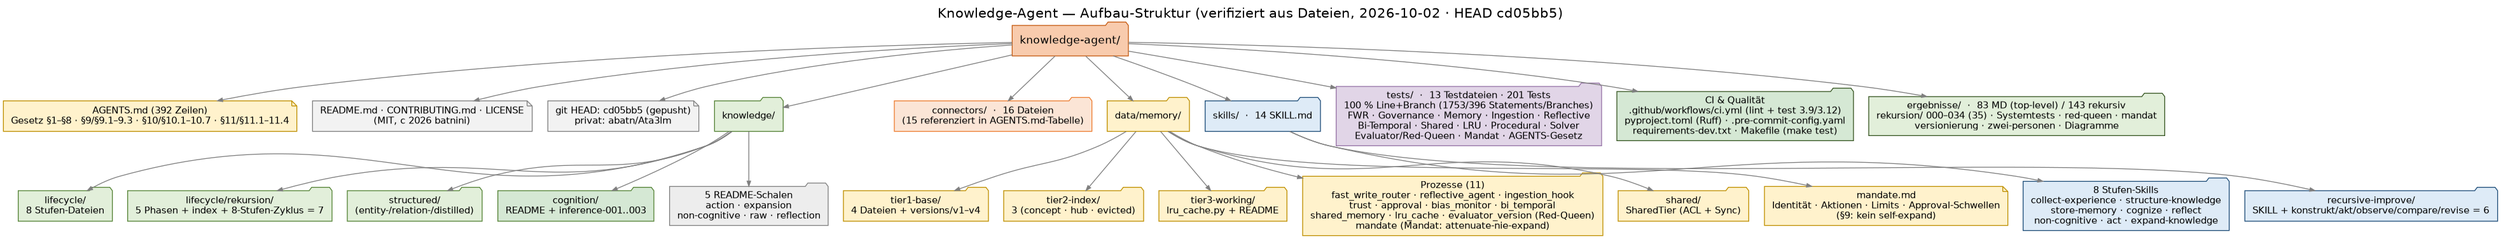
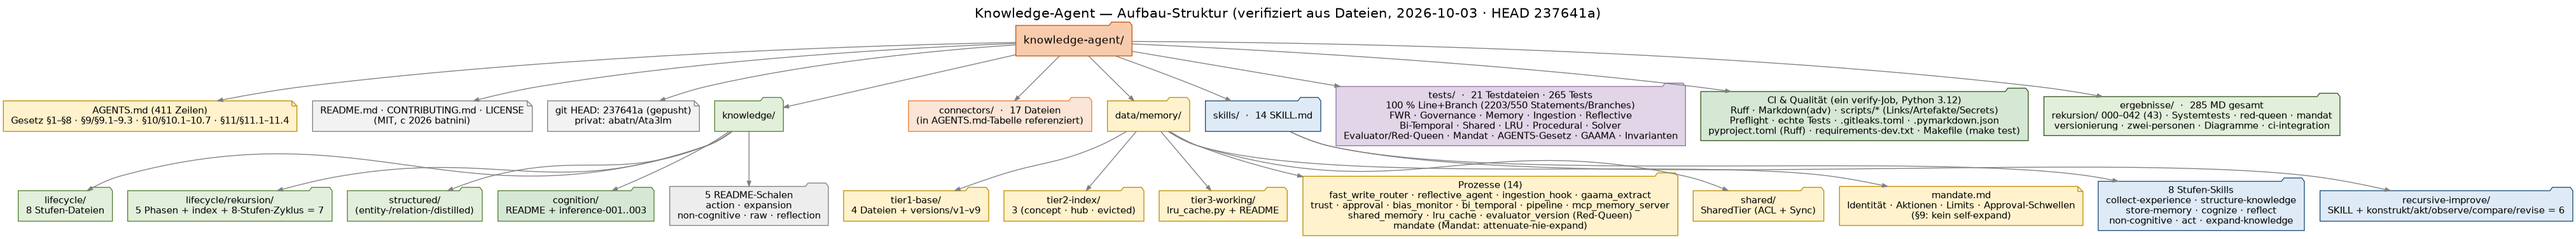
feat(tier2): Ladepfad aus concept-index.md (fill_from_tier2) + 5-Konzepte-Test; Diagramme aktualisiert
- lru_cache.fill_from_tier2: Konzepte aus tier2-index/concept-index.md -> Tier3 (Hybrid: Cosine+PPR, keine erfundenen Kanten)
- tests: test_fill_from_tier2_5_konzepte (5 Konzepte -> Tier3); robuste Real-Tests (pairwise/parse_transition_delta)
- Doku: ergebnisse/tier2-tier3.md
- Diagramme: agent-aufbau-kompakt (HEAD 237641a, AGENTS 411, connectors 17, Prozesse 14, tests 21/265/2203-550, CI verify 3.12, ergebnisse 285 MD/000-042)
- lokal: 265 passed, 100 %

diff --git a/tests/test_evaluator_version.py b/tests/test_evaluator_version.py
@@ -368,13 +368,19 @@ def test_positions_und_repetitions_kennzahlen():
 def test_llm_pairwise_judge_real_und_fail_soft(monkeypatch):
     a = {"id": "1", "text": "kurz", "rubric": "r"}
     b = {"id": "2", "text": "viel laengerer text", "rubric": "r"}
-    assert call(ev.make_llm_pairwise_judge(), a, b) in ("A", "B")  # realer Judge
-    monkeypatch.setenv("OPENAI_BASE_URL", BAD)
     log = []
-    j = ev.make_llm_pairwise_judge(log=log)
-    assert j(a, b) == "B" and log[0]["fallback"] == "rule_length"  # Regel: längerer Text
-    j2 = ev.make_llm_pairwise_judge(log=None)
-    assert j2(b, a) == "A"
+    for _ in range(6):  # echte Wiederholung bis Erfolg (kein Fallback-Log)
+        log = []
+        res = call(ev.make_llm_pairwise_judge(log=log), a, b)
+        if not log:
+            break
+    assert res in ("A", "B") and not log  # Erfolgspfad des echten Judges
+    monkeypatch.setenv("OPENAI_BASE_URL", BAD)
+    log2 = []
+    j2 = ev.make_llm_pairwise_judge(log=log2)
+    assert j2(a, b) == "B" and log2[0]["fallback"] == "rule_length"  # Regel: längerer Text
+    j3 = ev.make_llm_pairwise_judge(log=None)
+    assert j3(b, a) == "A"
 
 
 def test_parse_pair_winner():

diff --git a/data/memory/tier3-working/lru_cache.py b/data/memory/tier3-working/lru_cache.py
@@ -230,6 +230,18 @@ class WorkingMemory:
             loaded.append({"concept": key, "score": round(score, 4)})
         return loaded
 
+    def fill_from_tier2(
+        self, query: str, concepts_path: Path = None, edges: list = None, top_k: int = 5, min_score: float = 0.0
+    ):
+        """tier2 → tier3: lädt Konzepte aus `tier2-index/concept-index.md` (Hybrid-Retrieval).
+
+        Knoten = Konzepte aus dem Index; `edges` = echte GAAMA-Kanten (optional, Default
+        keine — der Index ist flach). score = w_sim·cos + w_ppr·ppr (GAAMA §3.4).
+        """
+        concepts = parse_concept_index(concepts_path)
+        items = [(c["concept"], c["concept"]) for c in concepts]
+        return self.fill_from_graph(query, items, edges or [], top_k=top_k, min_score=min_score)
+
     def consolidate_edges(self, edges: list, dims: dict, tau: float = VALIDATION_TAU):
         """Validation-Gated Hebbian-Konsolidierung: LTP nur bei bestandener Prüfung.
 

diff --git a/tests/test_tier2_tier3.py b/tests/test_tier2_tier3.py
@@ -131,3 +131,18 @@ def test_bidirectional():
 def test_hub_dampening_deaktiviert():
     ppr = lru.edge_type_aware_ppr(["A", "B"], [("A", "B", "NEXT")], {"A": 1.0}, hub_dampening_threshold=0)
     assert set(ppr) == {"A", "B"}
+
+
+def test_fill_from_tier2_5_konzepte(tmp_path):
+    """Ladepfad aus tier2-index/concept-index.md: 5 Konzepte -> Tier3."""
+    wm = lru.WorkingMemory(capacity=15)
+    loaded = wm.fill_from_tier2("8 stufen phasen identität", concepts_path=_index(tmp_path), top_k=5)
+    assert len(loaded) == 5
+    assert all(e["concept"] in wm.items for e in loaded)
+    assert {e["concept"] for e in loaded} == {
+        "8 Stufen",
+        "5 Phasen",
+        "Identität",
+        "Kernbeziehungen",
+        "Fast Write Routing",
+    }

diff --git a/tests/test_reflective.py b/tests/test_reflective.py
@@ -31,9 +31,13 @@ def test_row_normalize_und_noop_ohne_llm(no_key):
 
 
 def test_parse_transition_delta_mit_llm_real():
-    """Echtes LLM (Guardrail 7): liefert gültige K×K-Matrix oder NOOP (None)."""
-    out = call(ra.parse_transition_delta, "The action matched my usual inertia; slight bias to caution.", 4)
-    assert out is None or out.shape == (4, 4)
+    """Echtes LLM (Guardrail 7): liefert gültige K×K-Matrix (echte Wiederholung bis Erfolg)."""
+    out = None
+    for _ in range(8):
+        out = call(ra.parse_transition_delta, "The action matched my usual inertia; slight bias to caution.", 4)
+        if out is not None:
+            break
+    assert out is not None and out.shape == (4, 4)
 
 
 def test_matrix_from_raw_noop_und_form():

diff --git a/ergebnisse/tier2-tier3.md b/ergebnisse/tier2-tier3.md
@@ -31,8 +31,14 @@ episodic_graph.json (Episoden, verbatim)
                                         ABOUT_CONCEPT/DERIVED_FROM_FACT)  # KEINE Erfindung
    └─ lru_cache.hybrid_scores(query, items, edges)   # Seeds → beidseitig → d=2 → PPR
    └─ WorkingMemory.fill_from_graph(...)  -> Tier 3 (search-before-store)
+   └─ WorkingMemory.fill_from_tier2(...)  -> Tier 3 aus tier2-index/concept-index.md
    └─ gaama_extract.route_extracted_facts(facts)      # §10.1: Fast Write Router zuerst
 ```
+
+**Ladepfad aus dem Concept-Index:** `fill_from_tier2(query, concepts_path)` liest die
+Konzepte aus `data/memory/tier2-index/concept-index.md` (`parse_concept_index`) und lädt
+die top-k per Hybrid-Retrieval in Tier 3. Der Index ist **flach** → Knoten = Konzepte,
+`edges` optional (echte GAAMA-Kanten); es werden **keine** Kanten erfunden.
 
 `hybrid_scores` folgt GAAMA §3.4: Seeds = Top-Cosine → **beidseitige** Kanten
 (`_bidirectional`) → **Subgraph-Expansion d=2** (`expand_subgraph`) → `edge_type_aware_ppr`
